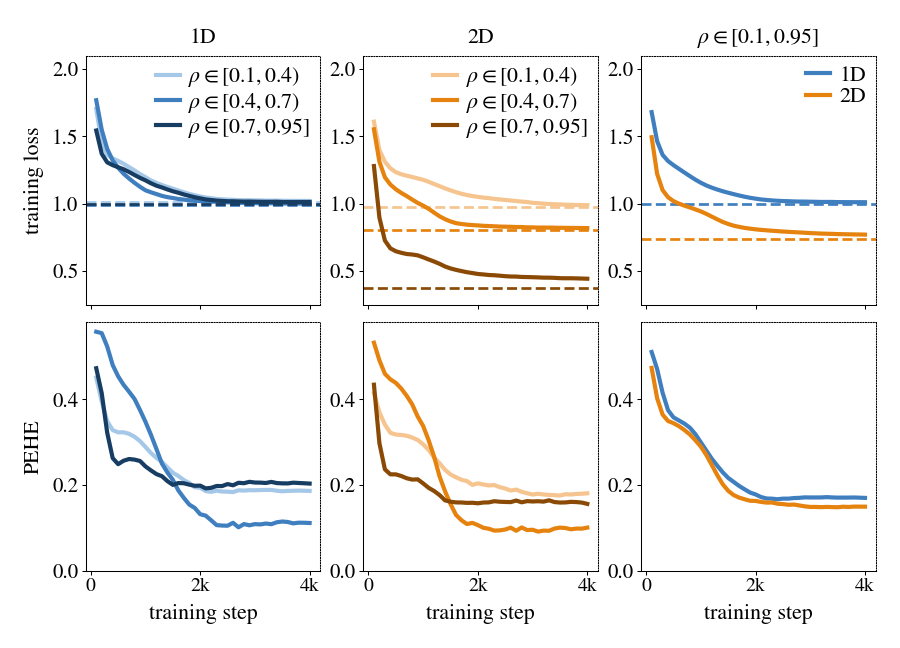
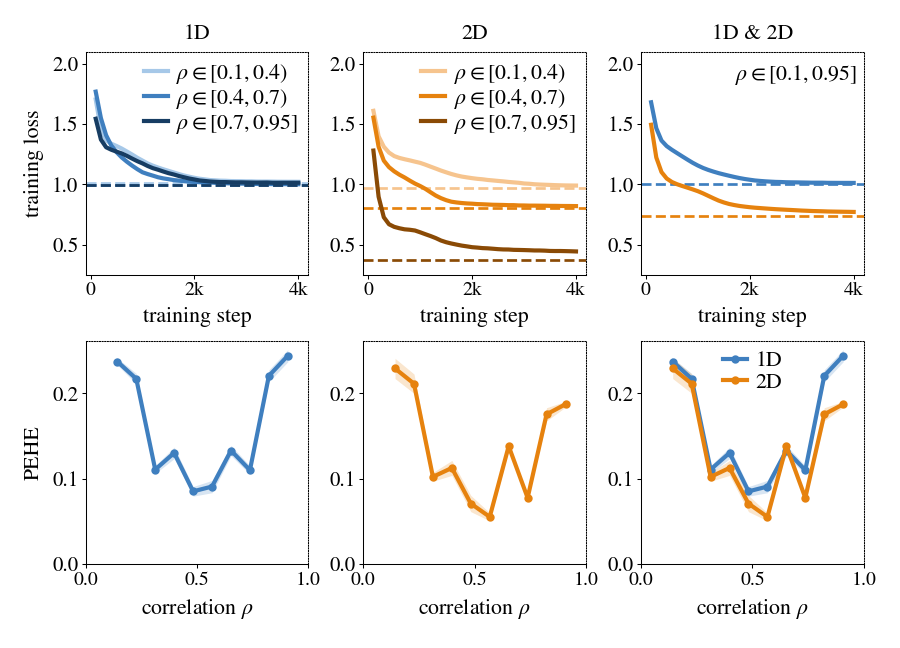
Toy figure: row 2 is PEHE after training against the correlation; 1D & 2D title, rho box
Claude-Session: https://claude.ai/code/session_01AZV2d6TbWGuV4cMQVAXpNa

diff --git a/revision/theory/loss_geometry/fig_sim5_link.py b/revision/theory/loss_geometry/fig_sim5_link.py
@@ -1,7 +1,7 @@
 """From the trained networks of sim5_track.py (narrow network, mean over 10 seeds), over training:
 row 1: training loss on fixed test units, with the loss of a perfect prediction dashed (same colour):
        1D by correlation group | 2D by correlation group | 1D and 2D over all correlations rho in [0.1, 0.95]
-row 2: PEHE on a grid of x, in the same groups / models as the panel above it.
+row 2: PEHE after training against the correlation, 10 bins (mean and SE over seeds): 1D | 2D | 1D and 2D.
    .venv/bin/python revision/theory/loss_geometry/fig_sim5_link.py OUT_DIR"""
 import importlib.util, json, os, sys
 import numpy as np
@@ -31,33 +31,40 @@ G = {"low": r"$\rho \in [0.1, 0.4)$", "medium": r"$\rho \in [0.4, 0.7)$", "high"
 SHADES = {"separate": ("#a6c8e8", "#3f7fbf", "#173d63"), "joint": ("#f6c48e", "#e6820e", "#8a4a05")}   # 1D blue, 2D orange
 MOD = (("1D", "separate", PS.COL_1D), ("2D", "joint", PS.COL_2D))
 KW = dict(frameon=False, handlelength=1.1, handletextpad=0.4, labelspacing=0.05, borderaxespad=0.05)
-fig, ax = plt.subplots(2, 3, figsize=(PS.TEXTWIDTH, PS.TEXTWIDTH * 0.72), sharex=True)
+fig, ax = plt.subplots(2, 3, figsize=(PS.TEXTWIDTH, PS.TEXTWIDTH * 0.72))
 
 for j, (lab, l, _) in enumerate(MOD):
     for (g, gl), col in zip(G.items(), SHADES[l]):
         ax[0, j].plot(steps, mean_track(l, f"loss_{g}"), color=col, lw=2.0, label=gl)
         ax[0, j].axhline(perfect(l, g), color=col, lw=1.3, ls="--")
-        ax[1, j].plot(steps, mean_track(l, f"pehe_{g}"), color=col, lw=2.0)
     ax[0, j].set_title(lab)
     ax[0, j].legend(loc="upper right", **KW)
 for lab, l, c in MOD:
     ax[0, 2].plot(steps, mean_track(l, "loss_all"), color=c, lw=2.0, label=lab)
     ax[0, 2].axhline(perfect(l, "all"), color=c, lw=1.3, ls="--")
-    ax[1, 2].plot(steps, mean_track(l, "pehe_all"), color=c, lw=2.0)
-ax[0, 2].set_title(r"$\rho \in [0.1, 0.95]$")
-ax[0, 2].legend(loc="upper right", **KW)
+ax[0, 2].set_title("1D & 2D")
+ax[0, 2].text(0.97, 0.95, r"$\rho \in [0.1, 0.95]$", transform=ax[0, 2].transAxes, ha="right", va="top")
+
+xs = np.linspace(-2, 2, 401); rho = 0.10 + 0.85 * (xs + 2) / 4
+edges = np.linspace(rho[0], rho[-1], 11); mid = (edges[:-1] + edges[1:]) / 2
+idx = np.clip(np.digitize(rho, edges) - 1, 0, 9)
+def pehe_by_rho(l):
+    E = np.array([run(s, l)["final"]["tau_err"] for s in SEEDS]) ** 2
+    P = np.array([[np.sqrt(E[k, idx == b].mean()) for b in range(10)] for k in range(len(SEEDS))])
+    return P.mean(0), P.std(0, ddof=1) / np.sqrt(len(P))
+for j, (lab, l, c) in enumerate(MOD):
+    m, se = pehe_by_rho(l)
+    for a in (ax[1, j], ax[1, 2]):
+        a.plot(mid, m, "-o", color=c, lw=2.0, ms=3, label=lab); a.fill_between(mid, m - se, m + se, color=c, alpha=0.2, lw=0)
+ax[1, 2].legend(loc="upper center", **KW)
 
 for a in ax[0]: a.set_ylim(0.25, 2.1); a.set_yticks([0.5, 1, 1.5, 2])
 top = max(a.get_ylim()[1] for a in ax[1])
-for a in ax[1]: a.set_ylim(0, top); a.set_xlabel("training step")
+for a in ax[1]: a.set_ylim(0, top); a.set(xlabel=r"correlation $\rho$", xlim=(0, 1), xticks=[0, 0.5, 1])
 ax[0, 0].set_ylabel("training loss"); ax[1, 0].set_ylabel("PEHE")
+for a in ax[0]:
+    a.set(xlabel="training step", xticks=[0, 2000, 4000]); a.set_xticklabels(["0", "2k", "4k"])
 for a in ax.flat:
-    a.set_xticks([0, 2000, 4000]); a.set_xticklabels(["0", "2k", "4k"])
     PS.frame(a); a.tick_params(axis="y", length=2, width=0.5)
 fig.tight_layout(w_pad=0.4, h_pad=0.6)
 for ext in ("png", "pdf"): fig.savefig(os.path.join(OUT, f"sim5_link.{ext}"), dpi=150)
-for lab, l, _ in MOD:
-    for g in list(G) + ["all"]:
-        L, P = mean_track(l, f"loss_{g}"), mean_track(l, f"pehe_{g}")
-        print(f"{lab} {g:6s}: loss above perfect start {L[0] - perfect(l, g):.3f} end {L[-1] - perfect(l, g):.3f};  "
-              f"PEHE start {P[0]:.3f} end {P[-1]:.3f}")
